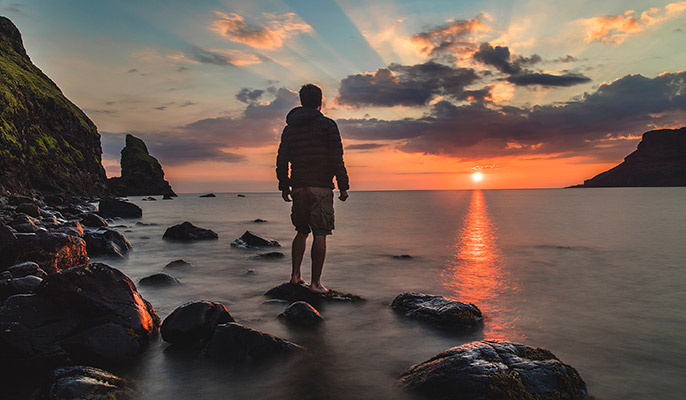
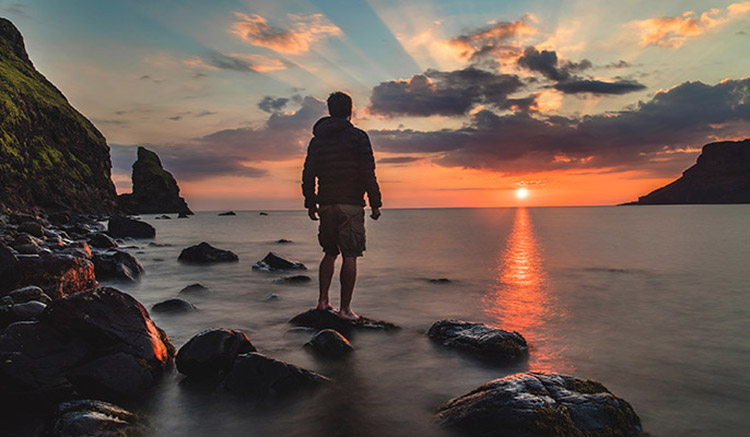
zoom carousel complete - zoom down not working

diff --git a/App.js b/App.js
@@ -1,5 +1,5 @@
 import React, { Component } from 'react'
-import { AppRegistry, Animated, Easing, View, StyleSheet, Image, Dimensions, ScrollView, TouchableOpacity } from 'react-native'
+import { AppRegistry, Animated, Easing, View, StyleSheet, Image, Dimensions, ScrollView, TouchableOpacity, Text } from 'react-native'
 
 const deviceWidth = Dimensions.get('window').width
 const deviceHeight = Dimensions.get('window').height
@@ -25,7 +25,7 @@ class ZoomView extends Component {
     minimumZoomScale: 1,
     zoomed: false,
     zoomEnabled: false,
-    zoomHeight: deviceHeight,
+    zoomHeight: 219,
     zoomWidth: deviceWidth,
   }
 
@@ -61,15 +61,36 @@ class ZoomView extends Component {
 
       this.scrollResponderRef.scrollResponderHandleTouchEnd = (event) => {
         if (this.props.zoomed) {
-          return
+          this.imageRef.measure((ox, oy, width, height, px, py) => {
+            if (width <= this.props.zoomWidth) {
+              //this.props.onZoomClosePress() //MH TODO: go back to isolated carousel
+              this.props.onZoomExit()
+              return
+            }
+            else {
+              return
+            }
+          })
         }
-        const currentY = event.nativeEvent.locationY
-        const scrollYDistance = Math.abs(this.state.startY - currentY)
-        //if we have swiped further up or down than the threshold distance and we're not zooming on an image, dismiss the isolated carousel mode
-        if (scrollYDistance > DISMISS_MODAL_THRESHOLD) {
-          this.props.onZoomClosePress()
+        else {
+          const isZoom = event.nativeEvent.touches.length > 1 ? true : false
+
+          if (!isZoom) {
+            const currentY = event.nativeEvent.locationY
+            const scrollYDistance = Math.abs(this.state.startY - currentY)
+            //if we have swiped further up or down than the threshold distance and we're not zooming on an image, dismiss the isolated carousel mode
+            if (scrollYDistance > DISMISS_MODAL_THRESHOLD) {
+              this.props.onZoomClosePress()
+            }
+          }
         }
       }
+    }
+  }
+
+  setImageRef = node => {
+    if (node) {
+      this.imageRef = node
     }
   }
 
@@ -99,23 +120,27 @@ class ZoomView extends Component {
         showsHorizontalScrollIndicator={false}
         showsVerticalScrollIndicator={false}
         ref={this.setZoomRef}
-        //scrollEnabled={this.props.zoomEnabled} //prevents you from panning on image
+        scrollEnabled={this.props.zoomEnabled} //prevents you from panning on image
         scrollEventThrottle={20}
         style={{
           overflow: 'visible',
-          height: 219,
         }}
       >
         <TouchableOpacity
           onPress={this.handleZoomViewPress}
+          flexGrow={1}
+          flex={1}
         >
           <Image
             source={this.props.source}
-            //ratioGrow
+            //flexGrow={1}
+            width={deviceWidth}
+            aspectRatio={1.716}
             style={{
               overflow: 'visible',
-              width: deviceWidth
+              //width: deviceWidth,
             }}
+            ref={this.setImageRef}
           />
         </TouchableOpacity>
       </ScrollView>
@@ -131,6 +156,11 @@ export default class App extends Component {
   //ZOOM VIEW
   animZoomVal = new Animated.Value(0)
 
+  animInverseZoomVal = this.animZoomVal.interpolate({
+    inputRange: [0, 1],
+    outputRange: [1, 0],
+  })
+
   animValUpTiming = Animated.timing(this.animZoomVal, {
     toValue: 1,
     duraton: 300,
@@ -143,7 +173,7 @@ export default class App extends Component {
   })
   animTranslateY = this.animZoomVal.interpolate({
     inputRange: [0, 1],
-    outputRange: [0, 150],
+    outputRange: [0, 175],
   })
 
   //SCROLLBAR
@@ -182,7 +212,6 @@ export default class App extends Component {
   })
 
   state = {
-    scrollEnabled: true,
     zoomEnabled: false,
     zoomed: false,
   }
@@ -208,7 +237,15 @@ export default class App extends Component {
     }
   }
 
-  renderSliderImage = (image, i) => {
+  handleZoomExit = () => {
+    if (this.state.zoomed) {
+      this.setState({ zoomed: false, zoomEnabled: true })
+      this.animScrollOpacityUpTiming.start()
+      this.animCloseOpacityUpTiming.start()
+    }
+  }
+
+  renderZoomView = (image, i) => {
     return (
       <ZoomView
         key={i}
@@ -217,6 +254,7 @@ export default class App extends Component {
         zoomed={this.state.zoomed}
         onZoomEnabled={this.handleZoomEnabled}
         onZoomClosePress={this.handleZoomClosePress}
+        onZoomExit={this.handleZoomExit}
         onZoomed={this.handleZoomed}
         index={i}
       />
@@ -227,17 +265,39 @@ export default class App extends Component {
 
     return (
       <View
-        style={styles.container}
+        style={{
+          flex: 1,
+          flexGrow: 1,
+          alignItems: 'center',
+          justifyContent: 'flex-start',
+          marginTop: 40,
+        }}
       >
+        <Animated.View
+          style={{
+            opacity: this.animInverseZoomVal,
+            paddingBottom: 20,
+          }}
+        >
+          <Text
+            style={{
+              fontSize: 18,
+            }}
+          >
+            Title
+          </Text>
+        </Animated.View>
         <Animated.View
           style={{
             transform: [
               { translateY: this.animTranslateY },
             ],
             height: 219,
+            zIndex: 10,
           }}
         >
           <Animated.ScrollView
+            grow
             horizontal
             pagingEnabled
             showsHorizontalScrollIndicator={false}
@@ -245,15 +305,16 @@ export default class App extends Component {
             onScroll={Animated.event(
               [{ nativeEvent: { contentOffset: { x: this.animScrollXVal } } }]
             )}
-            scrollEnabled={this.state.scrollEnabled}
+            scrollEnabled={!this.state.zoomed}
             style={{
               overflow: 'visible',
-
+              //flexGrow: 1,
+              //flex: 1,
             }}
           >
             {
               images.map((image, i) => {
-                return (this.renderSliderImage(image, i))
+                return (this.renderZoomView(image, i))
               })
             }
           </Animated.ScrollView>
@@ -275,7 +336,6 @@ export default class App extends Component {
                   backgroundColor: '#111111',
                   width: deviceWidth / images.length,
                   height: 5,
-                  marginHorizontal: -0.1,
                   transform: [
                     {
                       translateX: this.scrollXVal,
@@ -286,19 +346,46 @@ export default class App extends Component {
             </Animated.View>
           </Animated.View>
         </Animated.View>
+        <Animated.View
+          style={{
+            opacity: this.animInverseZoomVal,
+            marginTop: 50,
+            alignSelf: 'flex-start',
+            paddingLeft: 20,
+            paddingRight: 20,
+          }}
+        >
+          <Text
+            style={{
+              marginBottom: 20,
+              fontSize: 16,
+              backgroundColor: 'transparent'
+            }}
+          >
+            Subtitle
+          </Text>
+          <Text
+            style={{
+              backgroundColor: 'transparent'
+            }}
+          >
+            Aliquam in velit in ligula gravida cursus at ut lacus. Vestibulum luctus eleifend lorem, et tincidunt mi. Nam semper turpis in dolor sollicitudin elementum. Maecenas ornare felis ultricies congue maximus. Proin id luctus eros, nec varius libero. Integer at tincidunt augue. Aenean non ex dignissim, lacinia nibh id, convallis odio. Quisque consequat blandit elit eu pulvinar. Pellentesque hendrerit rhoncus magna, feugiat accumsan metus gravida sed. Integer ut mollis felis. Ut elementum nisi a libero imperdiet, eget volutpat ex sagittis. Morbi eu placerat nisi, et bibendum sapien.
+          </Text>
+        </Animated.View>
         {
           this.state.zoomEnabled &&
           (
             <Animated.View
               style={{
                 position: 'absolute',
-                top: 44,
+                top: 20,
                 right: 20,
                 opacity: this.animCloseOpacityVal,
               }}
             >
               <TouchableOpacity
                 onPress={this.handleZoomClosePress}
+                hitSlop={{ top: 20, left: 20, right: 20, bottom: 20 }}
               >
                 <Image
                   source={require('./assets/images/close.png')}
@@ -314,12 +401,3 @@ export default class App extends Component {
 }
 
 AppRegistry.registerComponent('App', () => App);
-
-const styles = StyleSheet.create({
-  container: {
-    flex: 1,
-    alignItems: 'center',
-    justifyContent: 'flex-start',
-    marginTop: 40,
-  },
-})
